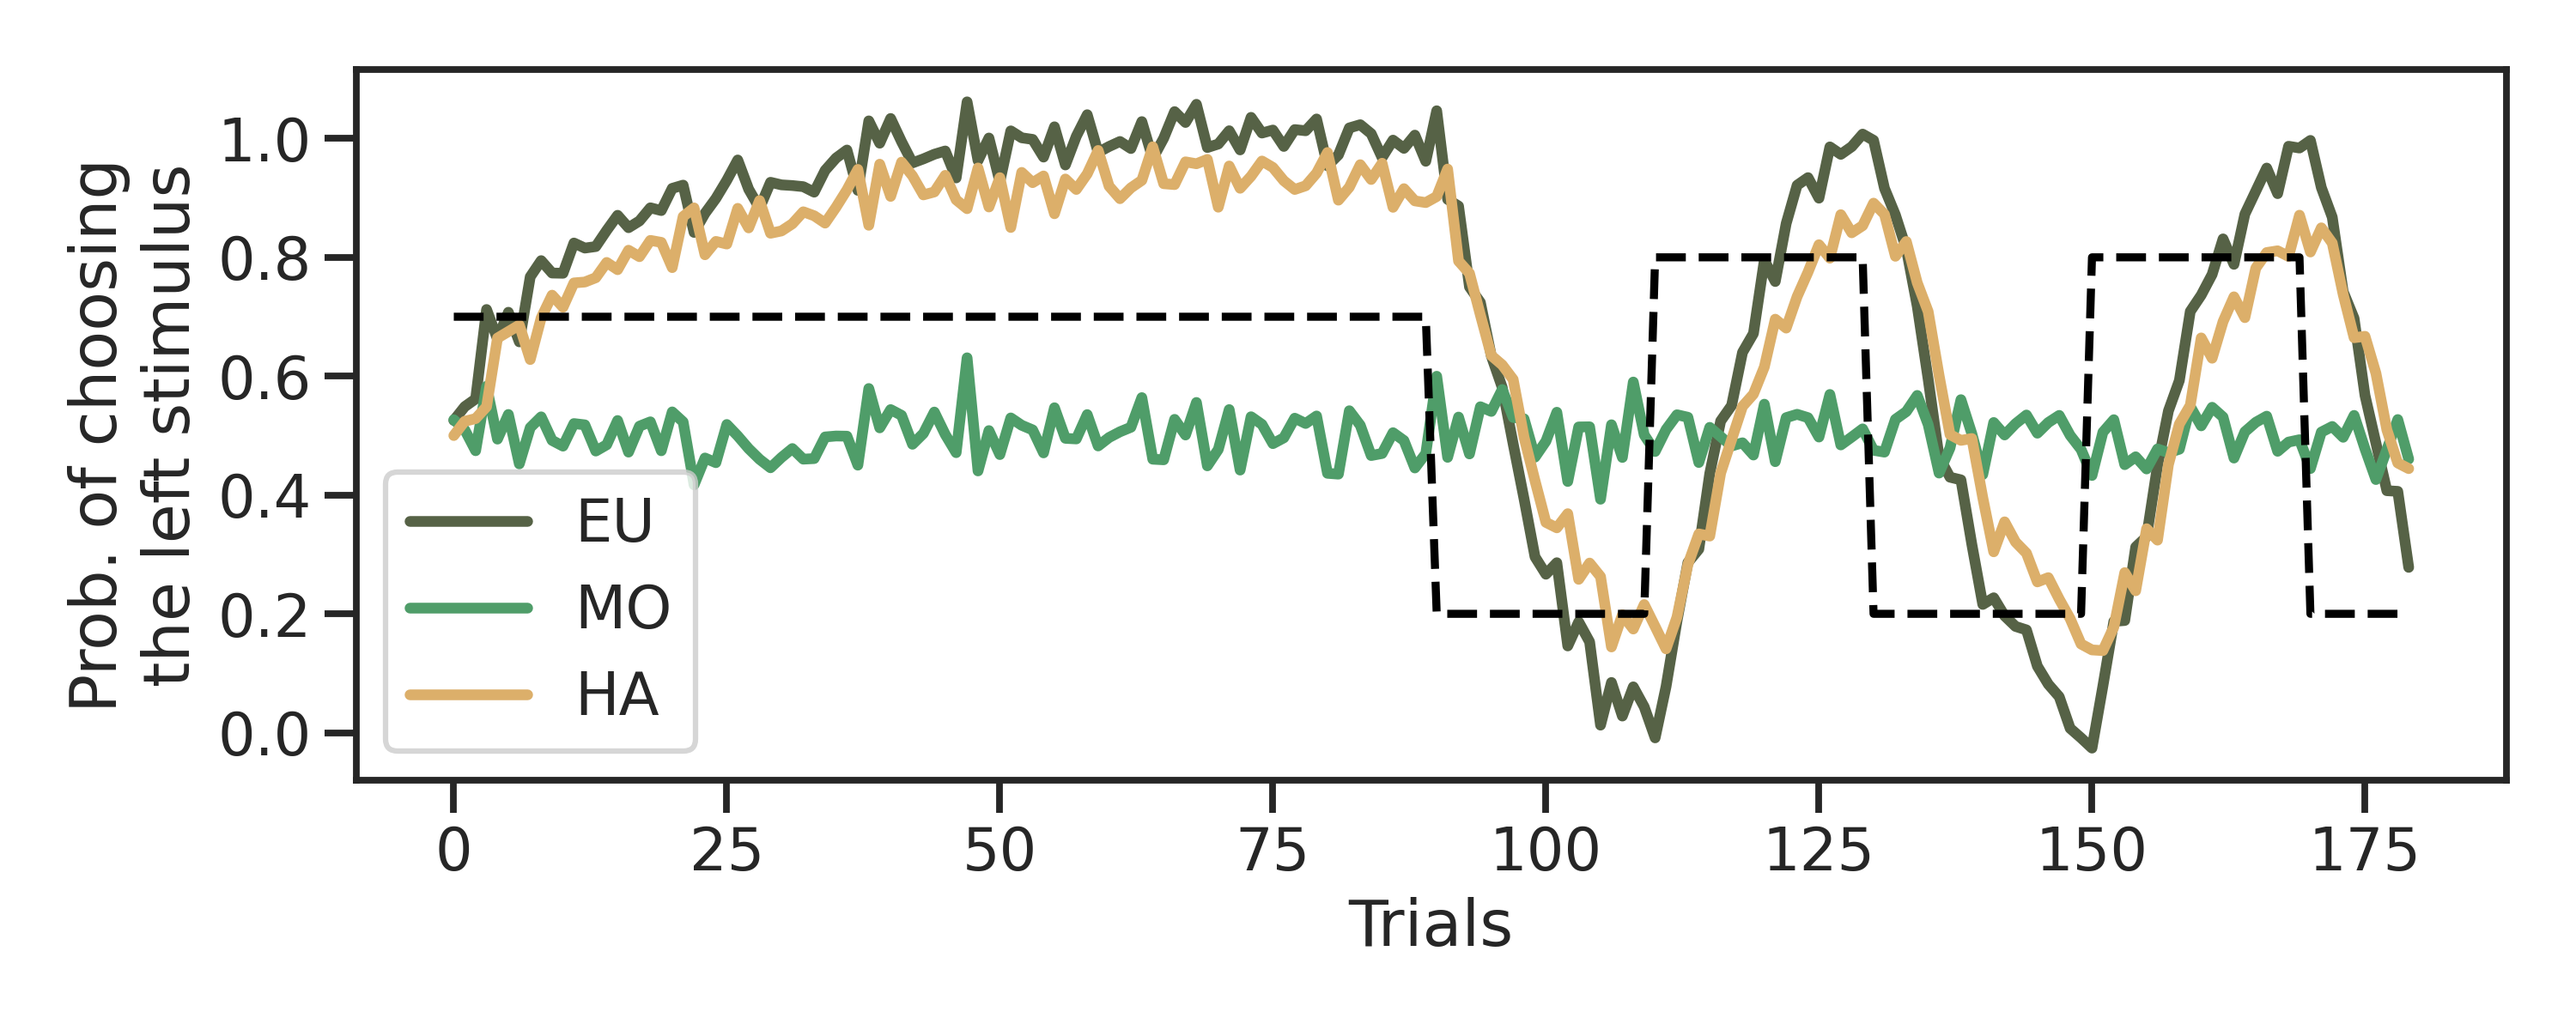
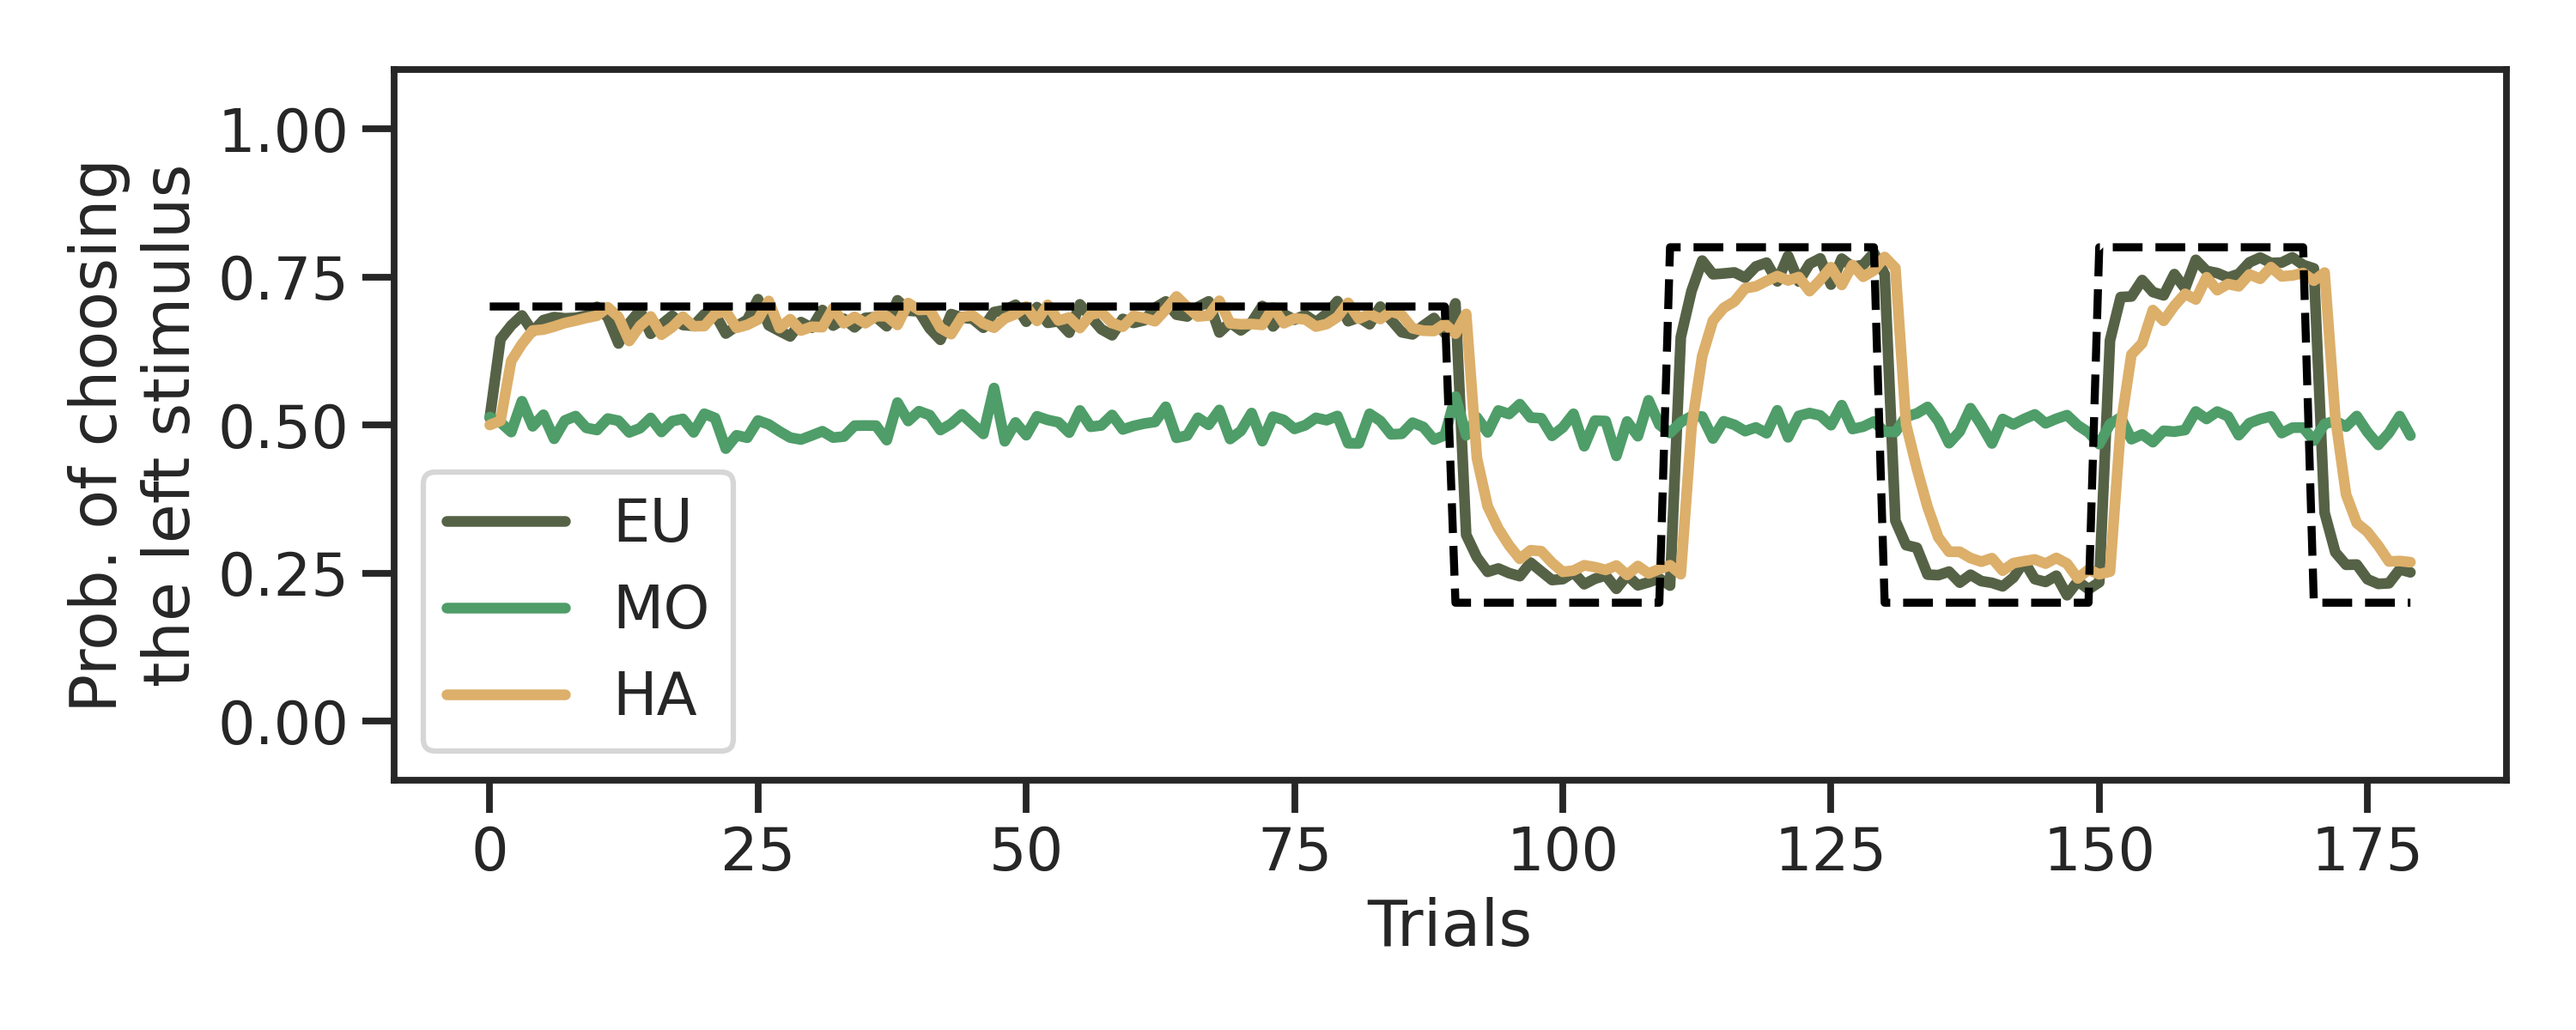
fix figure

diff --git a/m3_visualize.py b/m3_visualize.py
@@ -323,7 +323,7 @@ def pred_biFactor():
 
 def pi_effect():
 
-    fname = f'{path}/simulations/exp1data/MixPol/simsubj-exp1data-sta_first.csv'
+    fname = f'{path}/simulations/exp1data/MixPol/simsubj-exp1data-sta_first-HC.csv'
     data = pd.read_csv(fname)
 
     data = data.groupby(by=['trials'])[['l1_effect', 'l2_effect', 'l3_effect']].mean()
@@ -344,7 +344,7 @@ def pi_effect():
     sns.lineplot(x=np.arange(180), y=psi, color='k', ls='--')
     ax.set_ylabel('Prob. of choosing \nthe left stimulus')
     ax.set_xlabel('Trials')
-    #ax.set_ylim([0, 1.2])
+    ax.set_ylim([-.1, 1.1])
     ax.legend()
     plt.tight_layout()
     plt.savefig(f'{path}/figures/effect.png', dpi=300)
@@ -371,7 +371,7 @@ def pi_effect2():
     ax.set_ylabel('Prob. of choosing \nthe left stimulus')
     ax.set_xlabel('Trials')
     ax.legend()
-    ax.set_ylim([0, 1])
+    ax.set_ylim([-.1, 1.1])
     plt.tight_layout()
     plt.savefig(f'{path}/figures/effect2.png', dpi=300)
 

diff --git a/m2_simulate.py b/m2_simulate.py
@@ -134,6 +134,8 @@ def sim_subj(mode, seed, n_samples=3):
     n_params = 18
     fname    = f'{path}/fits/{args.data_set}/MixPol/params-{args.data_set}-{sub_id}-map.csv'      
     params   = pd.read_csv(fname, index_col=0).iloc[0, 0:n_params].values
+    params[:3] = [3.9758, 9.5894, 4.4965]
+    params[10] = 4.3274
         
     rng    = np.random.RandomState(seed)
     
@@ -178,5 +180,5 @@ if __name__ == '__main__':
     #sim_paral(pool, data, args)
 
     # STEP 3: SIM SUBJECT
-    #sim_subj_paral(pool, 'HC', args)
+    sim_subj_paral(pool, 'HC', args)
     sim_subj_paral(pool, 'PAT', args)

diff --git a/utils/agent.py b/utils/agent.py
@@ -314,9 +314,7 @@ class MixPol(baseAgent):
         pi_M  = softmax(self.beta*mag)
         w0, w1, w2 = self.get_w(b, f)
         # creat the mixature model 
-        self.pi_effect = [(pi_SM[1]-pi_SM[0])+.5, 
-                          (pi_M[1]-pi_M[0])+.5, 
-                          (self.q_A[1]-self.q_A[0])+.5]
+        self.pi_effect = [pi_SM[1], pi_M[1], self.q_A[1]]
         return w0*pi_SM + w1*pi_M + w2*self.q_A 
 
     def get_w(self, b, f):
